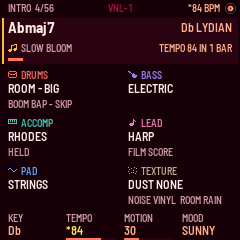
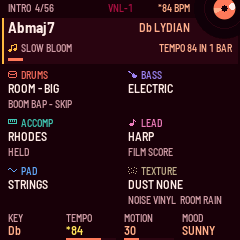
Main screen: the splash's record in the top right corner, its label whole (r 30)
Sam on the small record: "more like the splash screen or simplified home". The record is now the same drawing as
the splash's and now playing's, r 30, centered at (224, 8): its label whole (the cream dot, the wedge, the hole), the
disc running off the top and the right into the song tile (a record item in each band, as now playing's). The
status bar is 18 tall so no gap runs through the disc; the tempo moves to right 190 and the key and scale to 190
(176 locked, the padlock at 182). The turn redraws the label's box alone, 25 x 21 px.

The wedge now starts at 3/10 of the label's radius (12 px on the splash's, as before: its pixels unchanged), so a
smaller record keeps it. The other placements Sam was shown are listed beside it in screens.js.

Image +112 B over the base, RAM .data+.bss unchanged. The manual's main and pending shots re-shot.

Claude-Session: https://claude.ai/code/session_01ENYN74abncM7Wq3c4vd7md

Changed region(s): [[0.5542, 0.0, 0.9917, 0.175]]

diff --git a/workbench/ui/screens.js b/workbench/ui/screens.js
@@ -293,21 +293,22 @@ export default {
       title: "Main",
       menu: ["pSong", "pDrums", "pBass", "pComp", "pLead", "pPad", "pTexture"],
       bands: [
-        { y: 0, h: 16, draw: [
-          // now playing's record, small, in the top right corner (Sam, 2026-11-13: "a small spinning version of the
-          // record ... top row corner?"): it turns as that one does (33 1/3 while a song plays, easing to a stop),
-          // its label alone redrawn (render.c's ui_record_turn). Its groove DIM, not LINE: this small, a LINE groove
-          // vanishes into the background and the record reads as a dot. The other three placements Sam was shown,
-          // each this record's line and the numbers beside it:
-          //   left, whole:  [9, 8, 7]   the left texts' x 20, LOOP's after 5 (GROOVE 56/56 LOOP ending at 103)
-          //   left, cut:    [0, 8, 8]   the left texts' x 13 (half the record off the screen, as now playing's is)
-          //   right, cut:   [239, 8, 8] the tempo's right 226
-          { record: [230, 8, 7], value: "spin", color: "AMB", back: "VINYL", past: "DIM" },
+        // now playing's record in the top right corner (Sam, 2026-11-13: "a small spinning version of the record ...
+        // top row corner?", then "more like the splash screen or simplified home"): the same drawing, r 30, its label
+        // whole (the cream dot, the wedge, the hole), the disc running off the top and the right into the song tile
+        // (an item a band, as now playing's). It turns as that one does (33 1/3 while a song plays, easing to a
+        // stop), its label alone redrawn (render.c's ui_record_turn: a 25 x 21 box). The status bar 18 tall, so no
+        // gap runs through the disc. The tempo and the key move left of it. The other placements Sam was shown:
+        // a quarter on the corner ([240, 0, 32]), half a record cut by the right edge in the song tile
+        // ([240, 23, 22], the tile's right-hand text at 212), a quarter on the top left ([0, 0, 32]), and small
+        // whole or cut ones (r 7-8: render.c's small record)
+        { y: 0, h: 18, draw: [
+          { record: [224, 8, 30], value: "spin", color: "AMB", back: "VINYL", past: "LINE" },
           { when: "song", text: "{section}  {bar}/{bars}", font: "T", x: 8, y: 2, color: "GRAY" },
           { when: ["song", "looping"], text: "LOOP", font: "T", after: 8, y: 2, color: "HI" },
           { when: "!song", text: "{idle}", font: "T", x: 8, y: 2, color: "GRAY" },
-          // (the longest, a tempo waiting, *84 BPM: x 188-220)
-          { when: "known", text: "{tempo} BPM", font: "T", right: 220, y: 2, color: "HI" },
+          // (the longest, a tempo waiting, *84 BPM: x 158-190; the disc from 194)
+          { when: "known", text: "{tempo} BPM", font: "T", right: 190, y: 2, color: "HI" },
           // the firmware's name in capitals (the splash's wordmark alone is lower case), in the bar's face, quiet,
           // centred in its free middle (Sam, 2026-11-12): x 108-133, the longest left text (GROOVE 56/56 LOOP)
           // ending at 94
@@ -316,10 +317,12 @@ export default {
         { y: 18, h: 46, draw: [
           { when: "sel0", rect: [2, 0, 236, 46], color: "LINE" },
           { when: "sel0", rect: [2, 0, 2, 46], color: "SONG" },
+          { record: [224, -10, 30], value: "spin", color: "AMB", back: "VINYL", past: "LINE" },   // (its lower part)
           { when: "song", text: "{chord}", font: "B", x: 8, y: 2, color: "WHITE" },
-          { when: ["song", "!lockSong"], text: "{key} {mode}", font: "XS", right: 232, y: 2, color: "HI" },
-          { when: ["song", "lockSong"], text: "{key} {mode}", font: "XS", right: 220, y: 2, color: "HI" },   // (room for:)
-          { when: "lockSong", icon: "lock", x: 226, y: 4, color: "HI" },   // the song line locked (Sam, 2026-11-12)
+          // left of the record (F# MIXOLYDIAN, the longest, x 114-190; the longest chord ends at 89)
+          { when: ["song", "!lockSong"], text: "{key} {mode}", font: "XS", right: 190, y: 2, color: "HI" },
+          { when: ["song", "lockSong"], text: "{key} {mode}", font: "XS", right: 176, y: 2, color: "HI" },   // (room for:)
+          { when: "lockSong", icon: "lock", x: 182, y: 4, color: "HI" },   // the song line locked (Sam, 2026-11-12)
           { when: "song", icon: "song", x: 8, y: 26, color: "SONG" },
           { when: "song", text: "{map}", font: "T", x: 21, y: 24, color: "GRAY" },
           { when: "pending", text: "{pending}", font: "T", right: 232, y: 24, color: "HI" },   // as on a part's screen (Sam)

diff --git a/workbench/ui/device.js b/workbench/ui/device.js
@@ -323,14 +323,15 @@ const sin256 = (u) => { const i = u & 63, k = (u >> 6) & 3, v = SIN_Q[k & 1 ? 64
 const cos256 = (u) => sin256(u + 64);
 const idiv = (a, b) => Math.trunc(a / b);   // C's integer division
 // a record centred at (cx, cy) on the canvas: the disc (its edge smoothed), five grooves, the label (r * 5 / 13), and on
-// it, turned by spin (1/256 turns, counter-clockwise), a cream dot and opposite a wedge of light; the spindle's hole.
-// A small one (r under REC_SMALL: the main screen's, in its top band) to the pixel instead: its label (r * 3 + 3) / 7,
+// it, turned by spin (1/256 turns, counter-clockwise), a cream dot and opposite a wedge of light (from 3/10 of the
+// label out); the spindle's hole.
+// A small one (r under REC_SMALL, e.g. r 7 in a status bar) to the pixel instead: its label (r * 3 + 3) / 7,
 // one groove (r - 2), the dot a single pixel a pixel in from the label's edge, no wedge, the hole a single pixel
 export const REC_SMALL = 16;
 export const recordLabel = (r) => (r < REC_SMALL ? idiv(r * 3 + 3, 7) : idiv(r * 5, 13));
 export function drawRecord(lcd, cx, cy, r, C, label, disc, groove, spin) {
   const small = r < REC_SMALL, rl = recordLabel(r), outer = (2 * r + 1) ** 2, inner = (2 * rl + 1) ** 2;
-  const dist = small ? rl - 1 : idiv(rl * 3, 4), hole = small ? 0 : 36, sheen = small ? inner : 4 * 144;
+  const dist = small ? rl - 1 : idiv(rl * 3, 4), hole = small ? 0 : 36, sheen = small ? inner : 4 * idiv(rl * 3, 10) ** 2;
   const spot = small ? 0 : 10;
   const dotx = (dist * cos256(spin) + 2048) >> 12, doty = -((dist * sin256(spin) + 2048) >> 12);
   const ax = cos256(spin + 118), ay = sin256(spin + 118), bx = cos256(spin + 138), by = sin256(spin + 138);

diff --git a/app/ui/screens_gen.c b/app/ui/screens_gen.c
@@ -365,7 +365,7 @@ const ui_when_t UI_WHENS[59] = {
     {21, 0, 0},
     {20, 0, 0},
 };
-const ui_item_t UI_ITEMS[426] = {
+const ui_item_t UI_ITEMS[427] = {
     {0, 0, 4, 0, 8, 2, 0, 0, 1, 0, 0},
     {0, 0, 6, 0, 8, 2, 0, 2, 2, 0, 13},
     {0, 0, 4, 0, 8, 2, 0, 0, 3, 1, 18},
@@ -391,18 +391,19 @@ const ui_item_t UI_ITEMS[426] = {
     {1, 0, 2, 0, 8, 0, 224, 1, 0, 0, 0},
     {0, 0, 3, 0, 8, 8, 0, 0, 0, 0, 289},
     {0, 0, 3, 0, 8, 24, 0, 0, 0, 0, 118},
-    {8, 0, 5, 15, 230, 8, 7, 0, 0, 3, 22},
+    {8, 0, 5, 15, 224, 8, 30, 0, 0, 2, 22},
     {0, 0, 4, 0, 8, 2, 0, 0, 1, 0, 0},
     {0, 0, 6, 0, 8, 2, 0, 2, 2, 0, 13},
     {0, 0, 4, 0, 8, 2, 0, 0, 3, 1, 18},
-    {0, 0, 6, 0, 220, 2, 0, 1, 4, 0, 22},
+    {0, 0, 6, 0, 190, 2, 0, 1, 4, 0, 22},
     {0, 0, 3, 0, 108, 2, 0, 0, 0, 0, 337},
     {1, 0, 2, 0, 2, 0, 236, 46, 7, 0, 0},
     {1, 0, 13, 0, 2, 0, 2, 46, 7, 0, 0},
+    {8, 0, 5, 15, 224, 246, 30, 0, 0, 2, 22},
     {0, 3, 1, 0, 8, 2, 0, 0, 1, 1, 36},
-    {0, 1, 6, 0, 232, 2, 0, 1, 8, 0, 343},
-    {0, 1, 6, 0, 220, 2, 0, 1, 9, 0, 343},
-    {2, 0, 6, 0, 226, 4, 0, 0, 10, 0, 4},
+    {0, 1, 6, 0, 190, 2, 0, 1, 8, 0, 343},
+    {0, 1, 6, 0, 176, 2, 0, 1, 9, 0, 343},
+    {2, 0, 6, 0, 182, 4, 0, 0, 10, 0, 4},
     {2, 0, 13, 0, 8, 26, 0, 0, 1, 0, 8},
     {0, 0, 4, 0, 21, 24, 0, 0, 1, 2, 351},
     {0, 0, 6, 0, 232, 24, 0, 1, 6, 1, 40},
@@ -806,80 +807,80 @@ const ui_band_t UI_BANDS[86] = {
     {18, 28, 0, 12, 5},
     {50, 140, 0, 21, 1},
     {196, 44, 0, 22, 3},
-    {0, 16, 0, 25, 6},
-    {18, 46, 0, 31, 13},
-    {66, 144, 0, 44, 40},
-    {212, 28, 0, 84, 1},
+    {0, 18, 0, 25, 6},
+    {18, 46, 0, 31, 14},
+    {66, 144, 0, 45, 40},
+    {212, 28, 0, 85, 1},
     {0, 16, 0, 0, 4},
-    {18, 28, 0, 85, 4},
-    {50, 132, 0, 89, 1},
-    {196, 44, 0, 90, 3},
-    {0, 56, 0, 93, 1},
-    {56, 128, 0, 94, 10},
-    {184, 56, 0, 104, 1},
-    {0, 16, 0, 105, 3},
-    {18, 28, 0, 108, 8},
-    {48, 144, 0, 116, 6},
-    {200, 40, 0, 122, 3},
-    {0, 16, 0, 105, 3},
-    {18, 28, 0, 125, 8},
-    {48, 144, 0, 133, 12},
-    {200, 40, 0, 145, 3},
-    {0, 16, 0, 105, 3},
-    {18, 28, 0, 125, 8},
-    {48, 144, 0, 148, 9},
-    {200, 40, 0, 145, 3},
-    {0, 16, 0, 105, 3},
-    {18, 28, 0, 157, 8},
-    {48, 144, 0, 165, 12},
-    {200, 40, 0, 177, 3},
-    {0, 16, 0, 105, 3},
-    {18, 28, 0, 157, 8},
-    {48, 144, 0, 180, 3},
-    {200, 40, 0, 177, 3},
-    {0, 16, 0, 105, 3},
-    {18, 28, 0, 183, 8},
-    {48, 144, 0, 191, 12},
-    {200, 40, 0, 145, 3},
-    {0, 16, 0, 105, 3},
-    {18, 28, 0, 183, 8},
-    {48, 144, 0, 203, 3},
-    {200, 40, 0, 145, 3},
-    {0, 16, 0, 105, 3},
-    {18, 28, 0, 206, 8},
-    {48, 144, 0, 214, 12},
-    {200, 40, 0, 122, 3},
-    {0, 16, 0, 226, 5},
-    {18, 28, 0, 231, 8},
-    {48, 144, 0, 239, 12},
-    {200, 40, 0, 251, 3},
-    {0, 16, 0, 226, 5},
-    {18, 28, 0, 231, 8},
-    {48, 144, 0, 254, 3},
-    {200, 40, 0, 251, 3},
-    {0, 16, 0, 226, 5},
-    {18, 28, 0, 231, 8},
-    {48, 144, 0, 257, 12},
-    {200, 40, 0, 251, 3},
-    {0, 16, 0, 105, 3},
-    {18, 28, 0, 269, 8},
-    {48, 144, 0, 277, 9},
-    {200, 40, 0, 286, 3},
-    {0, 16, 0, 105, 3},
-    {18, 28, 0, 289, 2},
-    {50, 146, 0, 291, 23},
-    {196, 44, 0, 314, 3},
-    {0, 16, 0, 226, 5},
-    {18, 36, 0, 317, 4},
-    {56, 144, 0, 321, 36},
-    {200, 40, 0, 357, 3},
+    {18, 28, 0, 86, 4},
+    {50, 132, 0, 90, 1},
+    {196, 44, 0, 91, 3},
+    {0, 56, 0, 94, 1},
+    {56, 128, 0, 95, 10},
+    {184, 56, 0, 105, 1},
+    {0, 16, 0, 106, 3},
+    {18, 28, 0, 109, 8},
+    {48, 144, 0, 117, 6},
+    {200, 40, 0, 123, 3},
+    {0, 16, 0, 106, 3},
+    {18, 28, 0, 126, 8},
+    {48, 144, 0, 134, 12},
+    {200, 40, 0, 146, 3},
+    {0, 16, 0, 106, 3},
+    {18, 28, 0, 126, 8},
+    {48, 144, 0, 149, 9},
+    {200, 40, 0, 146, 3},
+    {0, 16, 0, 106, 3},
+    {18, 28, 0, 158, 8},
+    {48, 144, 0, 166, 12},
+    {200, 40, 0, 178, 3},
+    {0, 16, 0, 106, 3},
+    {18, 28, 0, 158, 8},
+    {48, 144, 0, 181, 3},
+    {200, 40, 0, 178, 3},
+    {0, 16, 0, 106, 3},
+    {18, 28, 0, 184, 8},
+    {48, 144, 0, 192, 12},
+    {200, 40, 0, 146, 3},
+    {0, 16, 0, 106, 3},
+    {18, 28, 0, 184, 8},
+    {48, 144, 0, 204, 3},
+    {200, 40, 0, 146, 3},
+    {0, 16, 0, 106, 3},
+    {18, 28, 0, 207, 8},
+    {48, 144, 0, 215, 12},
+    {200, 40, 0, 123, 3},
+    {0, 16, 0, 227, 5},
+    {18, 28, 0, 232, 8},
+    {48, 144, 0, 240, 12},
+    {200, 40, 0, 252, 3},
+    {0, 16, 0, 227, 5},
+    {18, 28, 0, 232, 8},
+    {48, 144, 0, 255, 3},
+    {200, 40, 0, 252, 3},
+    {0, 16, 0, 227, 5},
+    {18, 28, 0, 232, 8},
+    {48, 144, 0, 258, 12},
+    {200, 40, 0, 252, 3},
+    {0, 16, 0, 106, 3},
+    {18, 28, 0, 270, 8},
+    {48, 144, 0, 278, 9},
+    {200, 40, 0, 287, 3},
+    {0, 16, 0, 106, 3},
+    {18, 28, 0, 290, 2},
+    {50, 146, 0, 292, 23},
+    {196, 44, 0, 315, 3},
+    {0, 16, 0, 227, 5},
+    {18, 36, 0, 318, 4},
+    {56, 144, 0, 322, 36},
+    {200, 40, 0, 358, 3},
     {0, 16, 0, 0, 4},
-    {18, 36, 0, 360, 6},
-    {56, 144, 0, 366, 50},
-    {202, 38, 0, 416, 3},
-    {0, 64, 0, 93, 1},
-    {64, 120, 0, 419, 7},
-    {184, 56, 0, 104, 1},
+    {18, 36, 0, 361, 6},
+    {56, 144, 0, 367, 50},
+    {202, 38, 0, 417, 3},
+    {0, 64, 0, 94, 1},
+    {64, 120, 0, 420, 7},
+    {184, 56, 0, 105, 1},
 };
 const ui_knob_style_t UI_KNOB_STYLES[2] = {
     {8, 58, 0, 0, 4, 11, 1, 6, 4, 26, 50, 2, 5, 2},

diff --git a/app/ui/render.c b/app/ui/render.c
@@ -341,7 +341,7 @@ static void ui_blend(uint32_t i, uint16_t c, uint32_t a)
     cv_px[i] = swap16((nr << 11) | (ng << 5) | nb);
 }
 
-/* a small record (r under UI_REC_SMALL: the main screen's, in its top band), drawn to the pixel instead: its label
+/* a small record (r under UI_REC_SMALL, e.g. r 7 in a status bar), drawn to the pixel instead: its label
    (r * 3 + 3) / 7, one groove (r - 2), the dot a single pixel a pixel in from the label's edge, no wedge, the hole a
    single pixel */
 #define UI_REC_SMALL 16
@@ -349,14 +349,16 @@ static int32_t ui_record_rl(int32_t r) { return r < UI_REC_SMALL ? (r * 3 + 3) /
 
 /* a record, centred at (cx, cy) on the canvas (clipped to it): the disc in back with its edge smoothed, five grooves
    in past (r - 10 .. r - 50), the label (r * 5 / 13) in color, smoothed, and on it, turned by spin (1/256 turns,
-   counter-clockwise): a dot in the theme's white (WHITE) and, opposite, a wedge of light (HI); the spindle's hole.
+   counter-clockwise): a dot in the theme's white (WHITE) and, opposite, a wedge of light (HI) from 3/10 of the
+   label's radius out (12 px on the splash's); the spindle's hole.
    Whole numbers only (the mock's, pixel for pixel) */
 static void ui_record_at(int32_t cx, int32_t cy, int32_t r, uint16_t label, uint16_t disc, uint16_t groove, int spin)
 {
     int small = r < UI_REC_SMALL;
     int32_t rl = ui_record_rl(r), x0 = cx - r - 1, x1 = cx + r + 1, y0 = cy - r - 1, y1 = cy + r + 1, x, y, k;
     int32_t outer = (2 * r + 1) * (2 * r + 1), inner = (2 * rl + 1) * (2 * rl + 1), hole = small ? 0 : 4 * 9;
-    int32_t sheen = small ? inner : 4 * 12 * 12, spot = small ? 0 : 10, grooves = small ? 1 : 5;
+    int32_t sheen = small ? inner : 4 * (rl * 3 / 10) * (rl * 3 / 10);       /* (the wedge from 3/10 of the label) */
+    int32_t spot = small ? 0 : 10, grooves = small ? 1 : 5;
     int32_t dc = UI_COS256(spin), ds = ui_sin256(spin), dist = small ? rl - 1 : rl * 3 / 4;
     int32_t dotx = (dist * dc + 2048) >> 12, doty = -((dist * ds + 2048) >> 12);
     int32_t ax = UI_COS256(spin + 118), ay = ui_sin256(spin + 118), bx = UI_COS256(spin + 138), by = ui_sin256(spin + 138);

diff --git a/app/docs/MANUAL.md b/app/docs/MANUAL.md
@@ -116,11 +116,11 @@ each section, the tempo and, on its own line under the tempo, the mood.
 
 ### The main screen
 
-![The main screen: a status bar with INTRO 4/56, VNL-1, 81 BPM and a small turning record in the corner; the song tile with the chord Abmaj7, Db LYDIAN and SLOW BLOOM; six part tiles; the knob strip KEY Db, TEMPO 81, MOTION 30, MOOD SUNNY](img/vnl-main.png "The main screen")
+![The main screen: a status bar with INTRO 4/56, VNL-1 and 81 BPM, a turning record in the top right corner; the song tile with the chord Abmaj7, Db LYDIAN and SLOW BLOOM; six part tiles; the knob strip KEY Db, TEMPO 81, MOTION 30, MOOD SUNNY](img/vnl-main.png "The main screen")
 
-- **Status bar:** the section, the bar and the song's length in bars, LOOP while a section loops, the tempo, and
-  in the top right corner a small record that turns while a song plays and eases to a stop when it stops, as on
-  the now-playing screen.
+- **Status bar:** the section, the bar and the song's length in bars, LOOP while a section loops, and the tempo.
+- **Record:** in the top right corner, the now-playing screen's record, smaller; it turns while a song plays and
+  eases to a stop when it stops.
 - **Song tile:** the chord playing, the key and scale, the layout name, a change on its way, and a strip of the
   song's sections.
 - **Part tiles:** drums (kit and pattern), bass (instrument), accompaniment (instrument and rhythm), lead (instrument and

diff --git a/CHANGELOG.md b/CHANGELOG.md
@@ -29,9 +29,9 @@ The first public release: a generative lo-fi hip hop firmware for the M-VAVE FM-
   screens; mute and solo from the keys; every change landing on the next four-bar line; a screen reader; USB audio.
 - **The mood on now playing:** the now-playing screen shows the song's mood (SAD, WISTFUL, WARM or SUNNY) on its
   own line under the tempo, and the screen reader says it.
-- **A small record on the main screen:** the now-playing screen's record, small, in the top right corner of the main
-  screen's status bar, turning while a song plays and easing to a stop when it stops; the tempo moves left to make
-  room. Only its label is redrawn as it turns (a 9 x 9 pixel box).
+- **A record on the main screen:** the now-playing screen's record, smaller, in the main screen's top right corner
+  (its label whole, the disc running off the edges), turning while a song plays and easing to a stop when it stops;
+  the tempo and the key move left to make room. Only its label is redrawn as it turns (a 25 x 21 pixel box).
 - **Part locks:** hold SEQ on a part's screen, or on the main screen with its tile highlighted, and every new song
   keeps that part (its instrument, rhythm or style, register and variations) while the rest rolls. The song line
   locks too (key and scale, tempo, motion, mood).

diff --git a/app/site/landing.md b/app/site/landing.md
@@ -42,7 +42,7 @@ Other ways in:
 - **On the FM-1:** a now-playing screen, a main screen with a tile per part, a page per part, a Parts roll, Sections
   and a Mixer; mute or solo a part from the keys; a screen reader; USB audio in and out.
 
-![The main screen: the section, tempo and a small turning record at the top, the chord and key, a tile per part with its instrument (drums, bass, accompaniment, lead, pad, texture), and the key, tempo, motion and mood on the four knobs](img/main.png "The main screen")
+![The main screen: the section, tempo and a turning record in the corner, the chord and key, a tile per part with its instrument (drums, bass, accompaniment, lead, pad, texture), and the key, tempo, motion and mood on the four knobs](img/main.png "The main screen")
 
 ![The accompaniment's page: its instrument (Rhodes), rhythm, voicings and register on the four knobs, with the controls' hints below](img/comp.png "A part's page")
 

diff --git a/README.md b/README.md
@@ -139,7 +139,7 @@ plate is adapted from AMB-1, inspired by Dattorro.
 
 - A boot splash with a spinning record that flows into the now-playing screen: the song, its key, the chord playing,
   where it is, its tempo.
-- A main screen with the song's progress, a small record turning in its corner and a tile per part; a page per part
+- A main screen with the song's progress, a record turning in its corner and a tile per part; a page per part
   for its instrument, rhythm, register and re-rolls.
 - A Parts screen with each part's notes scrolling over the song; a Sections screen to jump, loop a section or stay on
   the song; a Mixer with a level, mute and solo per part.
